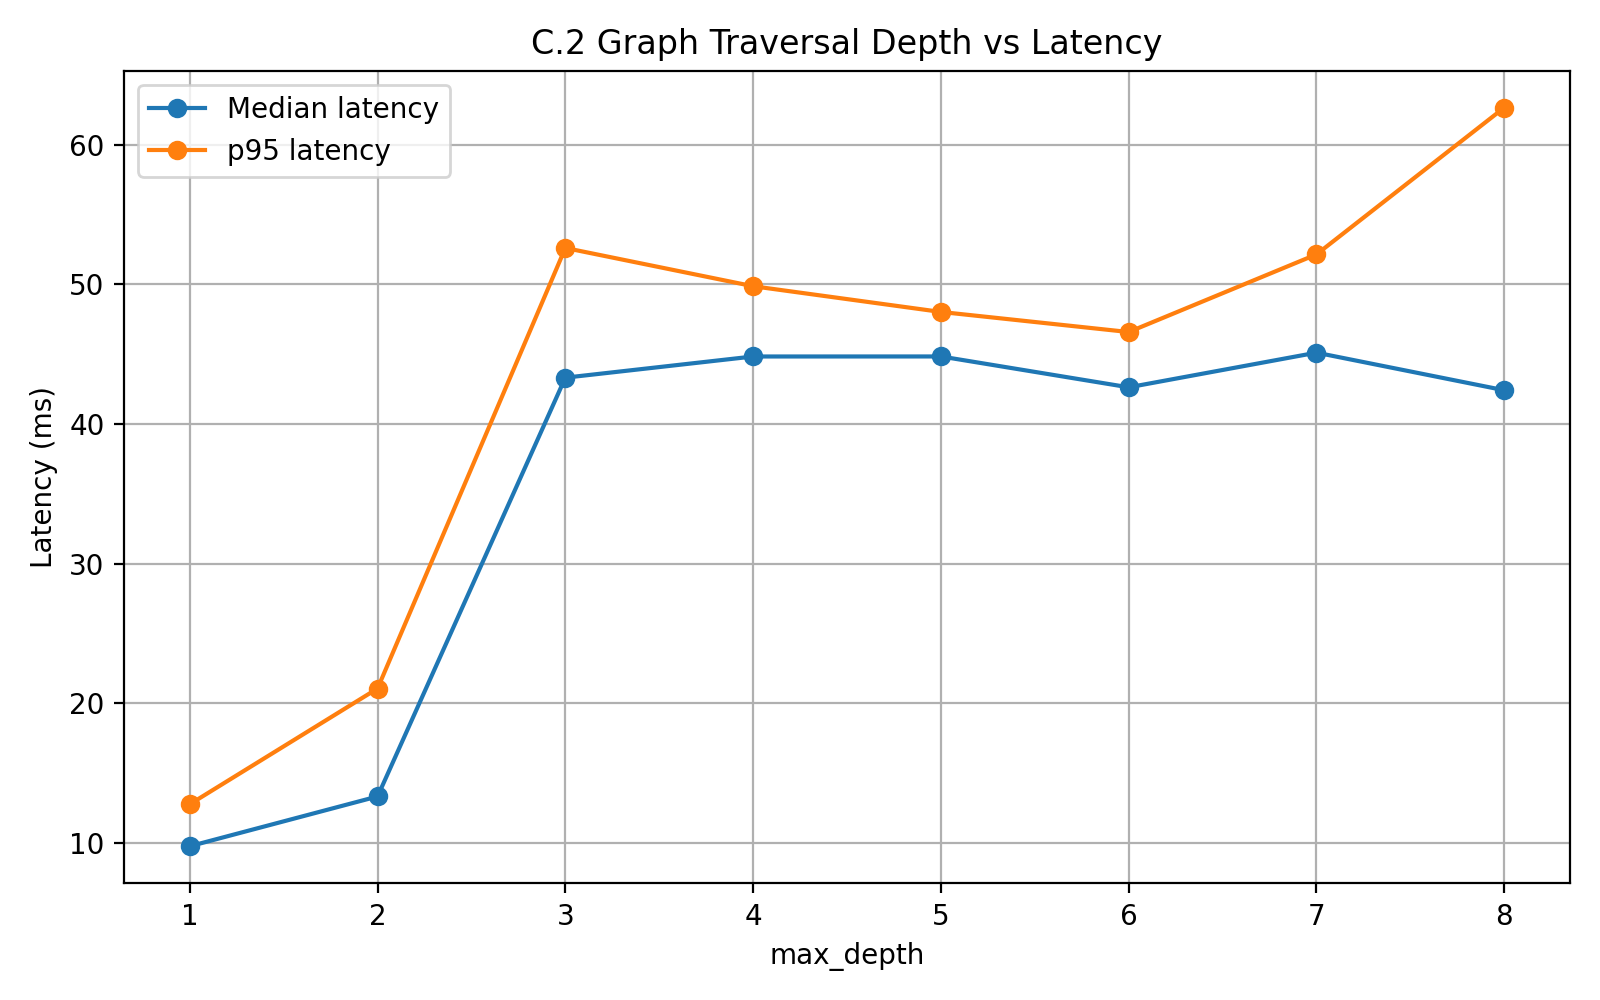
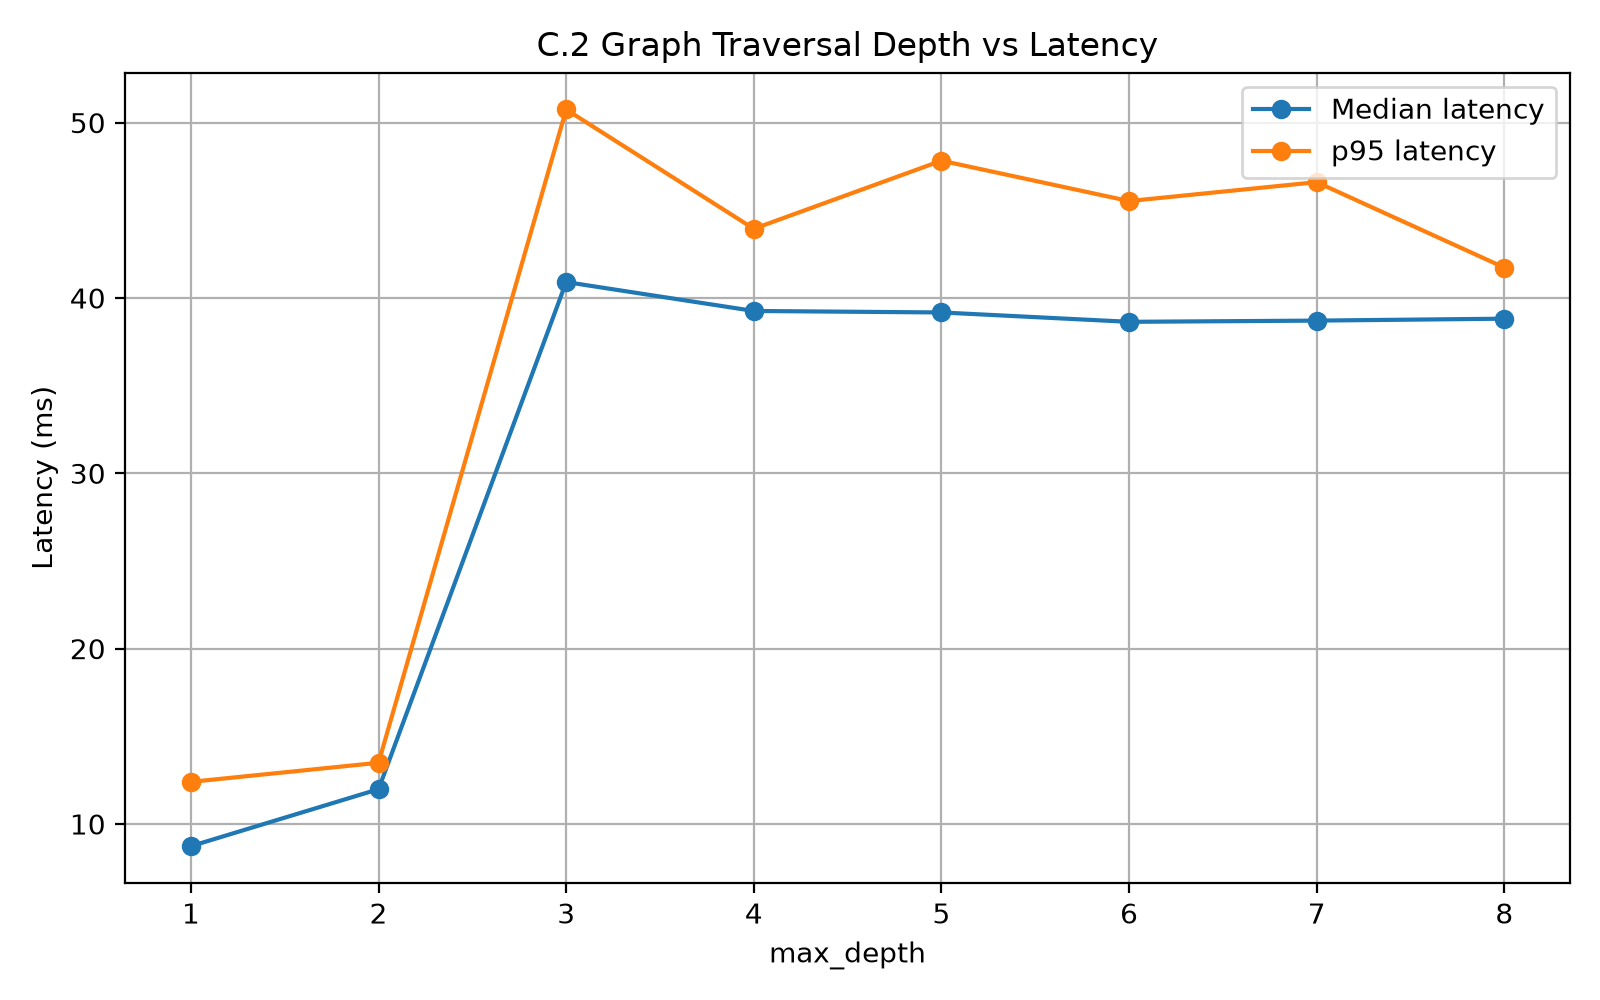
Small code modifications

diff --git a/scripts/benchmark_redis.py b/scripts/benchmark_redis.py
@@ -22,15 +22,19 @@ def measure_request():
 
     with urllib.request.urlopen(
         SUMMARY_URL,
-        timeout=10
+        timeout=10,
     ) as response:
         response.read()
+        cache_status = response.headers.get(
+            "X-Cache",
+            "UNKNOWN",
+        )
 
     latency_ms = (
         time.perf_counter() - start_time
     ) * 1000.0
 
-    return latency_ms
+    return latency_ms, cache_status
 
 def run_redis_command(*args):
     result = subprocess.run(
@@ -57,38 +61,6 @@ def delete_cache_key():
         CACHE_KEY,
     )
 
-
-def reset_redis_stats():
-    run_redis_command(
-        "CONFIG",
-        "RESETSTAT",
-    )
-
-
-def get_cache_stats():
-    output = run_redis_command(
-        "INFO",
-        "stats",
-    )
-
-    hits = 0
-    misses = 0
-
-    for line in output.splitlines():
-        line = line.strip()
-
-        if line.startswith("keyspace_hits:"):
-            hits = int(
-                line.split(":", 1)[1]
-            )
-
-        elif line.startswith("keyspace_misses:"):
-            misses = int(
-                line.split(":", 1)[1]
-            )
-
-    return hits, misses
-
 def run_warm_batch():
     print(
         f"Running warm-cache batch "
@@ -97,20 +69,23 @@ def run_warm_batch():
 
     delete_cache_key()
 
+    # Populate cache before measured batch.
     measure_request()
 
-    reset_redis_stats()
-
     latencies = []
+    hits = 0
+    misses = 0
 
     for _ in range(REQUESTS_PER_BATCH):
-        latency_ms = measure_request()
+        latency_ms, cache_status = measure_request()
         latencies.append(latency_ms)
 
-    hits, misses = get_cache_stats()
+        if cache_status == "HIT":
+            hits += 1
+        elif cache_status == "MISS":
+            misses += 1
 
     return latencies, hits, misses
-
 
 def run_cold_batch():
     print(
@@ -118,17 +93,21 @@ def run_cold_batch():
         f"({REQUESTS_PER_BATCH} requests)"
     )
 
-    reset_redis_stats()
-
     latencies = []
+    hits = 0
+    misses = 0
 
     for _ in range(REQUESTS_PER_BATCH):
-        latency_ms = measure_request()
+        latency_ms, cache_status = measure_request()
         latencies.append(latency_ms)
 
-    hits, misses = get_cache_stats()
+        if cache_status == "HIT":
+            hits += 1
+        elif cache_status == "MISS":
+            misses += 1
 
     return latencies, hits, misses
+
 
 def percentile(values, percent):
     ordered_values = sorted(values)
@@ -260,6 +239,8 @@ def main():
             f"{result['misses']:>10}"
             f"{result['hit_rate']:>11.2f}%"
         )
+    run_controlled_comparison()
+
 
 def run_controlled_comparison():
     samples = 30
@@ -267,21 +248,22 @@ def run_controlled_comparison():
     print("\n=== C.3 Supplemental Hit-vs-Miss Test ===")
     print(f"Samples per condition: {samples}")
 
-    # Controlled cache hits
     delete_cache_key()
-    measure_request()  # populate cache
+    measure_request()
 
     hit_latencies = []
 
     for _ in range(samples):
-        hit_latencies.append(measure_request())
+        latency_ms, _ = measure_request()
+        hit_latencies.append(latency_ms)
 
     # Controlled cache misses
     miss_latencies = []
 
     for _ in range(samples):
         delete_cache_key()
-        miss_latencies.append(measure_request())
+        latency_ms, _ = measure_request()
+        miss_latencies.append(latency_ms)
 
     hit_median = statistics.median(hit_latencies)
     miss_median = statistics.median(miss_latencies)
@@ -314,6 +296,8 @@ def run_controlled_comparison():
         f"Incremental miss-path fraction: "
         f"{incremental_fraction:.2f}%"
     )
+
+
 
 if __name__ == "__main__":
     main()

diff --git a/api/routers/sensors.py b/api/routers/sensors.py
@@ -2,7 +2,7 @@ import json
 import zlib
 from datetime import date, datetime, timedelta, timezone
 
-from fastapi import APIRouter, HTTPException, Query
+from fastapi import APIRouter, HTTPException, Query, Response
 from starlette.concurrency import run_in_threadpool
 
 from api.db.cassandra import get_cassandra_session
@@ -260,7 +260,10 @@ def _build_summary(sensor_id: str):
 
 
 @router.get("/{sensor_id}/summary")
-async def get_summary(sensor_id: str):
+async def get_summary(
+    sensor_id: str,
+    response: Response,
+):
     redis_client = await get_redis()
 
     cache_key = f"sensor_summary:{sensor_id}"
@@ -268,7 +271,10 @@ async def get_summary(sensor_id: str):
     cached = await redis_client.get(cache_key)
 
     if cached:
+        response.headers["X-Cache"] = "HIT"
         return json.loads(cached)
+
+    response.headers["X-Cache"] = "MISS"
 
     summary = await run_in_threadpool(
         _build_summary,

diff --git a/api/fault_worker.py b/api/fault_worker.py
@@ -57,10 +57,19 @@ async def run_fault_worker():
             messages = await client.xreadgroup(
                 GROUP, CONSUMER, {STREAM: "0"}, count=10
             )
-            if not messages:
-                messages = await client.xreadgroup(
-                    GROUP, CONSUMER, {STREAM: ">"}, count=10, block=1000
-                )
+
+            has_entries = any(entries for _, entries in messages)
+
+            if not has_entries:
+               messages = await client.xreadgroup(
+                   GROUP,
+                   CONSUMER,
+                   {STREAM: ">"},
+                   count=10,
+                   block=1000,
+               )
+
+
             for _, entries in messages:
                 for event_id, fields in entries:
                     payload = json.loads(fields["payload"])
